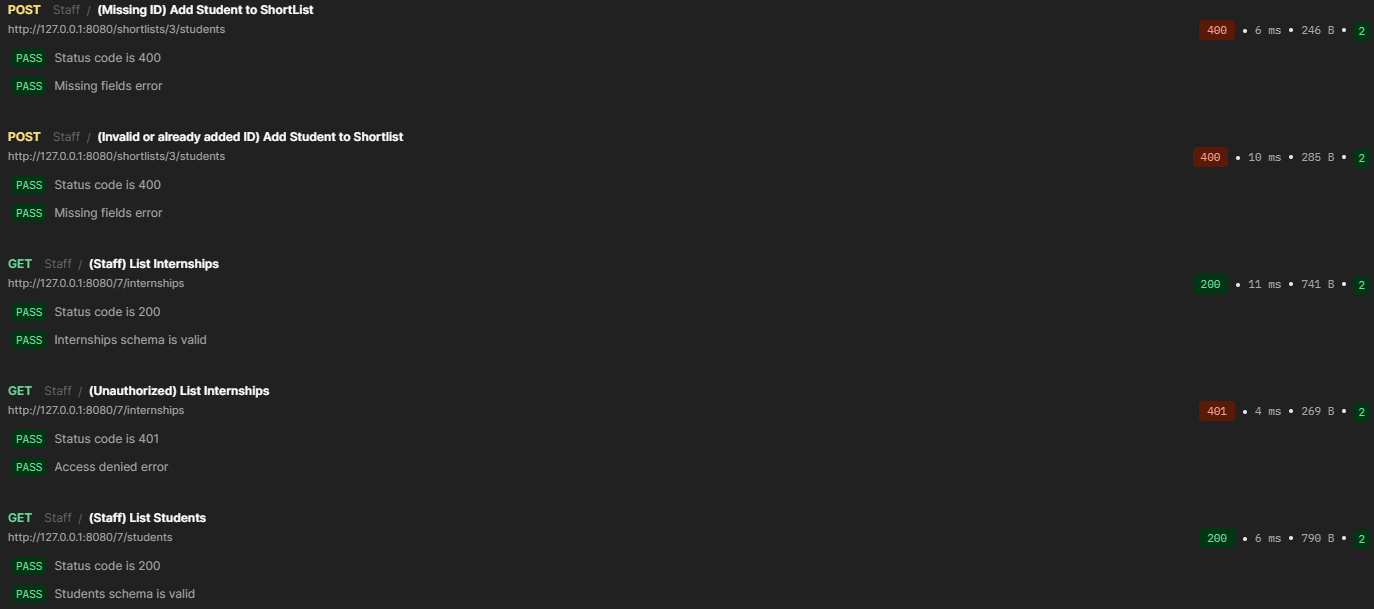
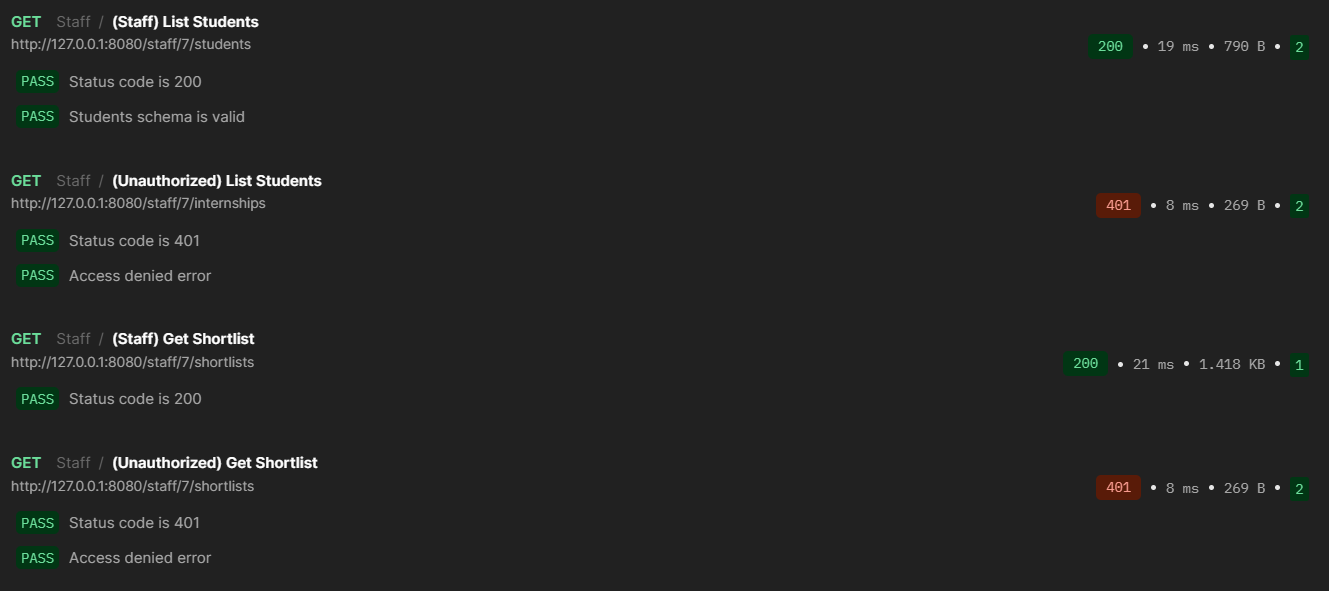
Update employer and staff urls (GET) for consistency to satisfy REST API conventions
- updated postman accordingly
- updated screenshots in readme file and google doc
- exported and push updated postman collection (all tests are passing)
- removed demo vid in readme.md as well

diff --git a/App/views/staff.py b/App/views/staff.py
@@ -26,7 +26,7 @@ def create_staff_route():
     return jsonify({"message": "Staff account created", "staff_id": staff.id}), 201
 
 
-@staff_views.route('/<staff_id>/internships', methods=['GET'])
+@staff_views.route('/staff/<staff_id>/internships', methods=['GET'])
 @jwt_required()
 def get_internships(staff_id):
     authenticated_staff_id = get_jwt_identity()
@@ -34,19 +34,25 @@ def get_internships(staff_id):
     if not is_staff(authenticated_staff_id):
         return jsonify({"error": "Access denied - staff authorization required"}), 401
     
+    if str(authenticated_staff_id) != str(staff_id):
+        return jsonify({"error": "Access denied - can only view your own resources"}), 403
+
     result = view_internship_positions(staff_id)
     if result is None:
         return jsonify({"error": "Staff not found or database error"}), 404
     return jsonify(result), 200
 
 
-@staff_views.route('/<staff_id>/students', methods=['GET'])
+@staff_views.route('/staff/<staff_id>/students', methods=['GET'])
 @jwt_required()
 def get_students(staff_id):
     authenticated_staff_id = get_jwt_identity()
     
     if not is_staff(authenticated_staff_id):
         return jsonify({"error": "Access denied - staff authorization required"}), 401
+    
+    if str(authenticated_staff_id) != str(staff_id):
+        return jsonify({"error": "Access denied - can only view your own resources"}), 403
     
     result = list_students(staff_id)
     if result is None:
@@ -62,6 +68,9 @@ def get_shortlists(staff_id):
     if not is_staff(authenticated_staff_id):
         return jsonify({"error": "Access denied - staff authorization required"}), 401
     
+    if str(authenticated_staff_id) != str(staff_id):
+        return jsonify({"error": "Access denied - can only view your own resources"}), 403
+
     result = view_shortlists(staff_id)
     if result is None:
         return jsonify({"error": "Staff not found or database error"}), 404

diff --git a/App/views/employer.py b/App/views/employer.py
@@ -31,7 +31,7 @@ def create_employer_route():
     return jsonify({"message": "Employer account created", "employer_id": employer.id}), 201
 
 
-@employer_views.route('/emp/<employer_id>/shortlists', methods=['GET'])
+@employer_views.route('/employer/<employer_id>/shortlists', methods=['GET'])
 @jwt_required()
 def emp_get_shortlists(employer_id):
     
@@ -50,7 +50,7 @@ def emp_get_shortlists(employer_id):
     return jsonify(result), 200
 
 
-@employer_views.route('/internships/<internship_id>/accept/<student_id>', methods=['PUT'])
+@employer_views.route('/internships/<internship_id>/students/<student_id>/accept', methods=['PUT'])
 @jwt_required()
 def accept_student_route(internship_id, student_id):
     employer_id = get_jwt_identity()
@@ -65,7 +65,7 @@ def accept_student_route(internship_id, student_id):
     return jsonify({"error": "Failed to accept student - invalid IDs or student not in shortlist"}), 400
 
 
-@employer_views.route('/internships/<internship_id>/reject/<student_id>', methods=['PUT'])
+@employer_views.route('/internships/<internship_id>/students/<student_id>/reject', methods=['PUT'])
 @jwt_required()
 def reject_student_route(internship_id, student_id):
     employer_id = get_jwt_identity()

diff --git a/README.md b/README.md
@@ -2,10 +2,6 @@
 
 An app for staff to shortlist students to internship opportunities created by employers who can accept or reject student.
 
-## Demonstration
-
-https://github.com/user-attachments/assets/f3705681-911b-46ef-af02-45a7a14afd42
-
 ## Core Functionality
 
 1. **(Employer)** Create internship positions
